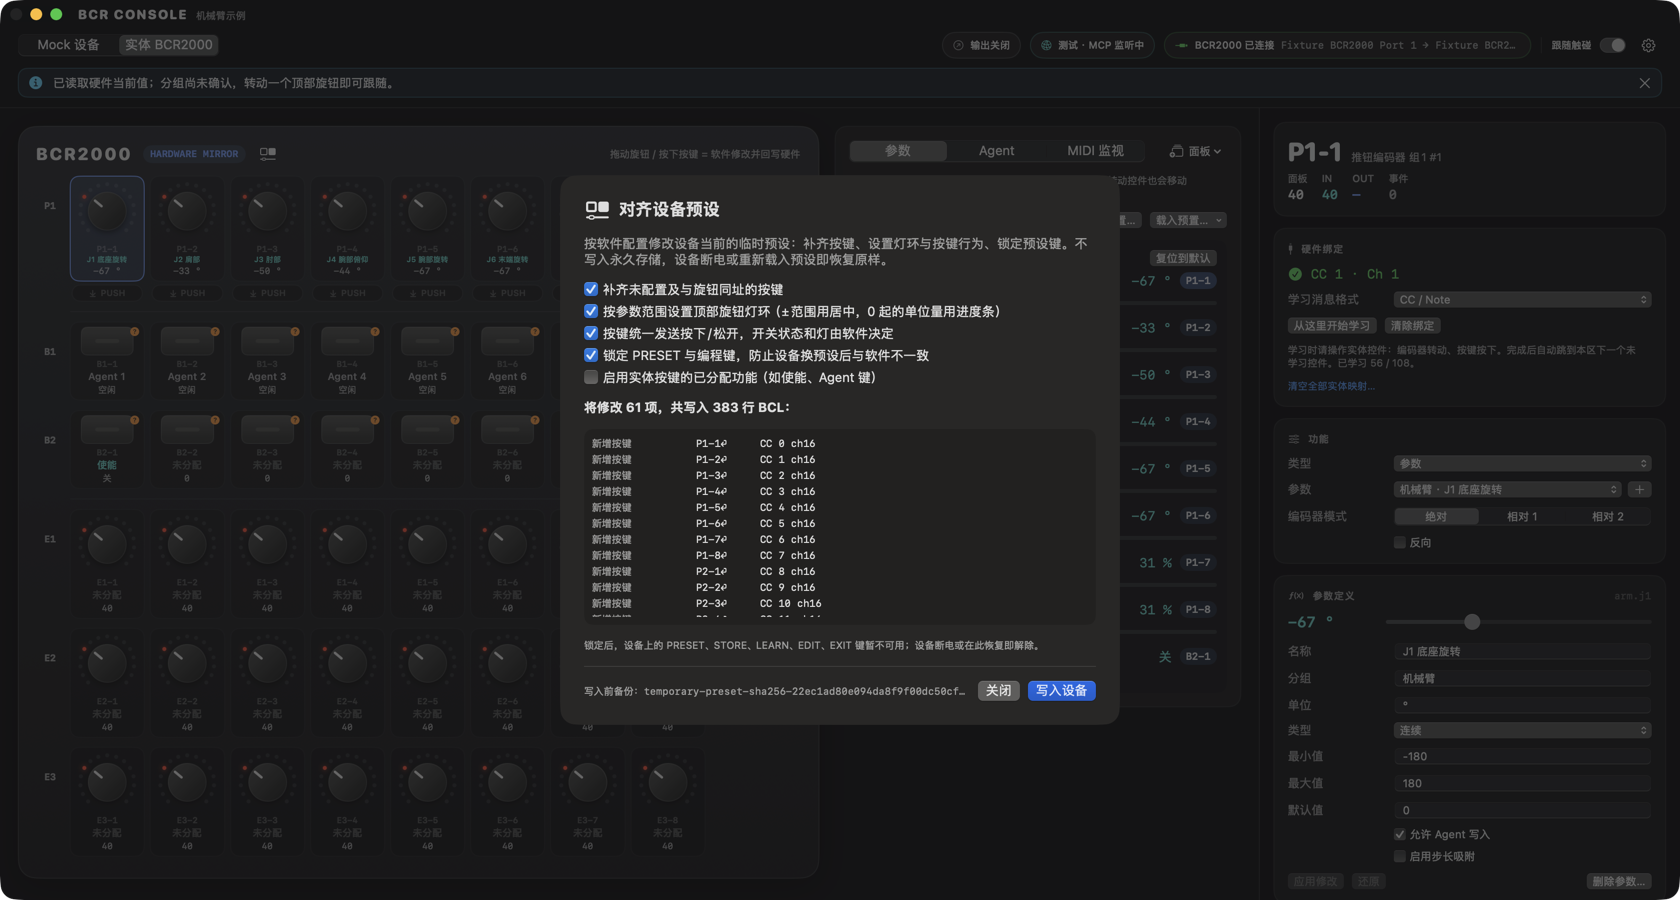
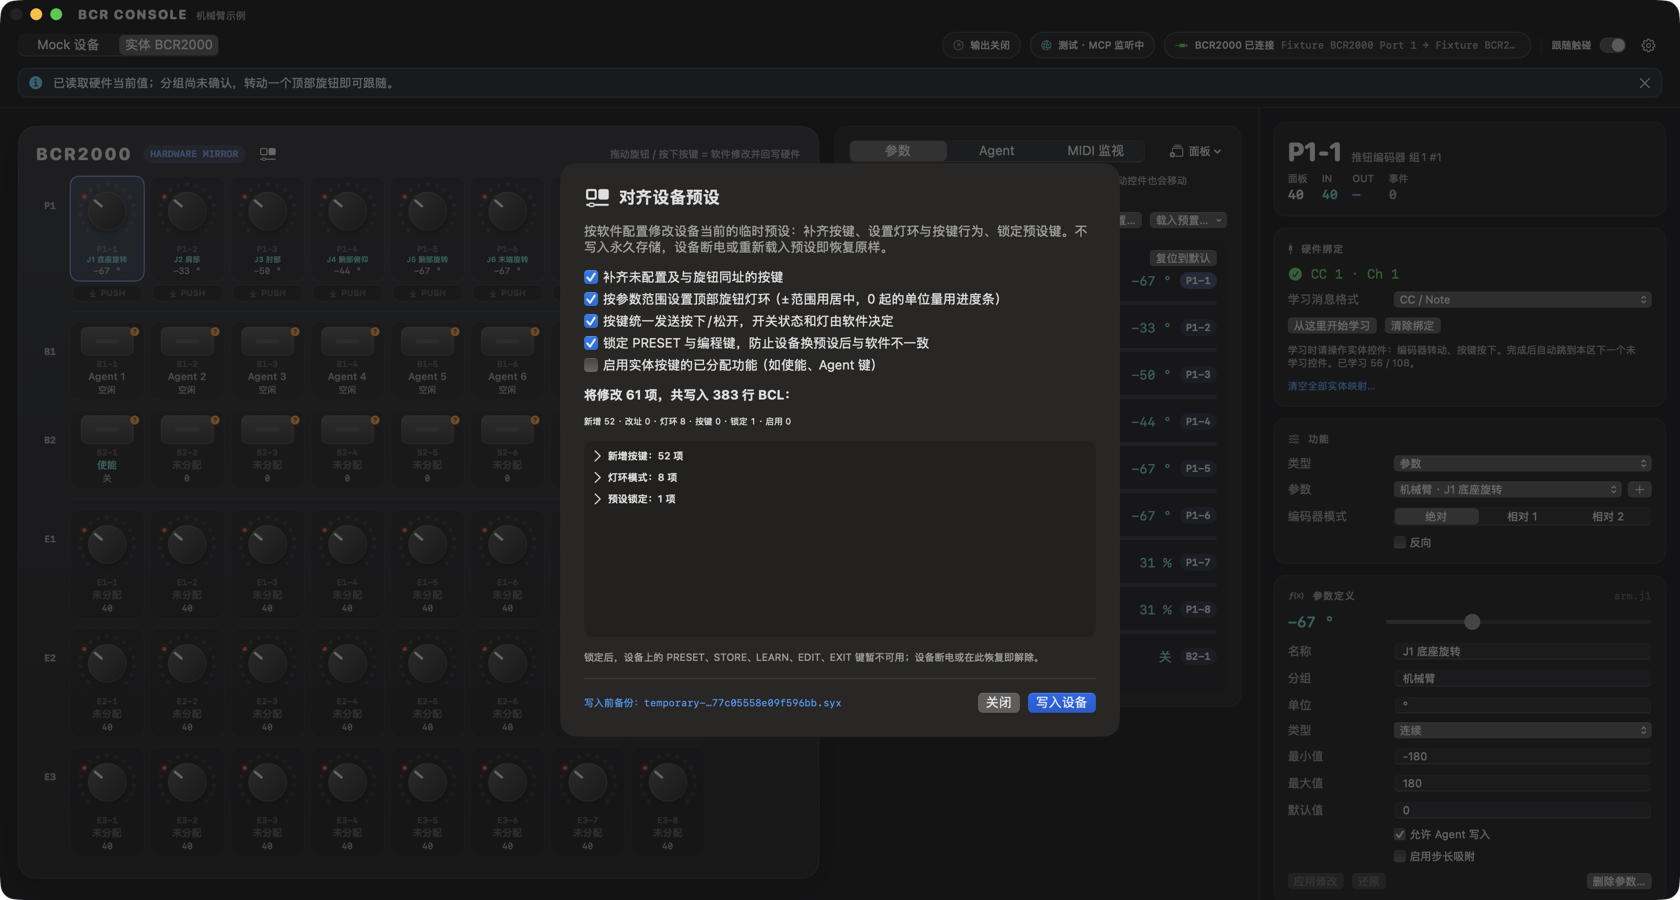
feat(ui): default hardware connection to read-only mode
Make the read-current-hardware action the Return default, label it as leaving the device unchanged and remove prominent styling from initialization. Keep Escape for decline and give no default shortcut to writes. Refresh the two changed README flow screenshots.

Validation: 535 Swift tests, 76 workflow tests, boundaries, strings lint, build and bilingual startup passed. Chinese/English native acceptance used Return and verified hardware source with zero preset/control writes during connection; minimum-window and README captures inspected. Existing initialization/write policies unchanged.

Changed region(s): [[0.3405, 0.1867, 0.65, 0.6844], [0.3405, 0.7156, 0.65, 0.8089]]

diff --git a/Sources/BCRAgentConsole/HardwareConnectionSheet.swift b/Sources/BCRAgentConsole/HardwareConnectionSheet.swift
@@ -18,7 +18,7 @@ struct HardwareConnectionSheet: View {
                         .fixedSize(horizontal: false, vertical: true)
                     Button(L10n.text("初始化并连接")) { model.connectHardware(prompt.id, mode: .initialize) }
                         .accessibilityIdentifier("connection.initialize")
-                        .buttonStyle(.borderedProminent)
+                        .buttonStyle(.bordered)
                 }
                 .padding().frame(maxWidth: .infinity, alignment: .leading).panelStyle()
             }
@@ -35,12 +35,13 @@ struct HardwareConnectionSheet: View {
             }
             if prompt.canRead {
                 VStack(alignment: .leading, spacing: 8) {
-                    Text(L10n.text("硬件 → 软件")).font(.headline)
+                    Text(L10n.text("硬件 → 软件（不改动设备）")).font(.headline)
                     Text(L10n.text("读取控制器当前旋钮值，不切换预设或改动设备；分组在顶部输入后确认。"))
                         .fixedSize(horizontal: false, vertical: true)
                     Button(L10n.text("按硬件现状连接")) { model.connectHardware(prompt.id, mode: .read) }
                         .accessibilityIdentifier("connection.read")
-                        .buttonStyle(.bordered)
+                        .keyboardShortcut(.defaultAction)
+                        .buttonStyle(.borderedProminent)
                 }
                 .padding().frame(maxWidth: .infinity, alignment: .leading).panelStyle()
             }

diff --git a/tools/verify_connection_ui.py b/tools/verify_connection_ui.py
@@ -120,7 +120,8 @@ def run():
     assert status()["source"] == "mock" and state()["voiceWrites"] == 0
     client.call("set_device_source", {"source": "hardware"}, expect_error=True)
     ui.wait(lambda: ui.exists("connection.read"), "Read connection option did not reappear")
-    ui.press("connection.read")
+    # Return must choose the read-only option; writing and initialization have no default shortcut.
+    ui.run("set frontmost to true\nkey code 36")
     ui.wait(lambda: status()["source"] == "hardware", "Read connection did not complete")
     assert status()["hardwareConnection"]["confirmation"] == "none"
     assert state()["voiceWrites"] == state()["presetWrites"] == 0

diff --git a/docs/UI_ACCEPTANCE.md b/docs/UI_ACCEPTANCE.md
@@ -52,7 +52,7 @@ Mock 机械臂示例预置，不读取生产配置或 Keychain，不启动实体
 | 脚本 | 覆盖范围 | 最近验收 |
 | --- | --- | --- |
 | `verify_builtin_names_ui.py` | 中文存储的参数/分组在英文工作区、批量预览、输出设置中翻译；浏览不改 JSON/MCP 原名 | 2026-11-12 通过 |
-| `verify_connection_ui.py` | 连接确认/拒绝/读取；三次预览零写入且备份去重；分类汇总/展开/收起、选项、写入进度、单键功能确认/取消/启用/禁用、回读及恢复 | 2026-11-12 中英文通过 |
+| `verify_connection_ui.py` | 连接确认/拒绝/读取；三次预览零写入且备份去重；分类汇总/展开/收起、选项、写入进度、单键功能确认/取消/启用/禁用、回读及恢复 | 2026-11-13 中英文通过 |
 | `verify_configuration_ui.py` | 参数草稿刷新 / 冲突解决；原生导入导出；非法文件拒绝；替换确认及保留硬件映射 | 2026-11-11 通过 |
 | `verify_endpoint_ui.py` | MIDI 端点设置；默认自动 Port 1；隔离模式禁止应用实体端口 | 2026-11-11 通过 |
 | `verify_functions_ui.py` | 步进 / 指定 / 循环按键；参数吸附；整行分配预览确认及保留运行值 | 2026-11-11 通过 |

diff --git a/PLAN.md b/PLAN.md
@@ -440,3 +440,11 @@ E6 与 E9 不在本次范围（E6 等用户决定，E9 另行安排）。
   中英文完整原生验收通过；逐张查看 1200×760 截图（case-39ll41hp、case-pvswluxk）。
 - 过程/偏离：视觉检查发现原有英文灯环选项截断，增加按宽度换行后重跑全量及双语验收；没有业务/写入内容改动。
   README 流程图片待 E7 默认项调整后统一刷新；没有设备操作。
+
+### E5 — `5d243c8`
+
+- 改动：设备菜单“在访达中显示备份…”打开已有 Backups 目录；对齐文件名链接定位对应文件，文件缺失/目录打开失败可见。
+  长文件名在固定宽度内截断，help 保留完整路径；仅文件导航，没有新增任意备份恢复入口。
+- 验证：Swift 五包 535 项、失败 0；BuildWorkflow 76 项、失败 0；边界、strings lint、build、双语 smoke 通过。
+  双语原生脚本实际点击文件和目录入口，校验备份字节、恢复点流程及设备预设写入次数不变；检查最小窗口链接布局。
+- 未验证/偏离：没有真实设备；Finder 自身窗口未另做辅助功能树断言，定位使用系统 NSWorkspace API，原生脚本只断言 App 与文件状态。
